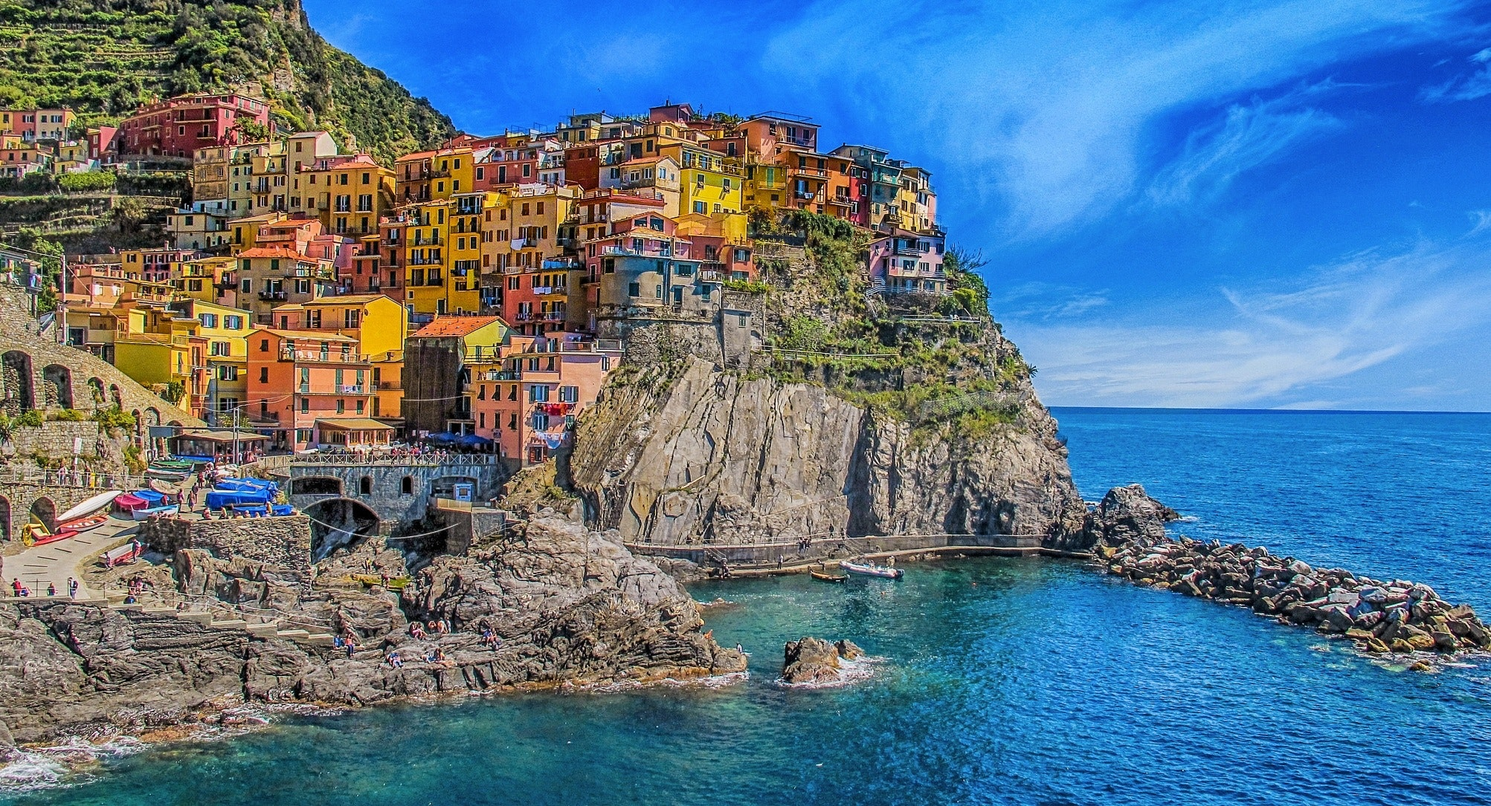
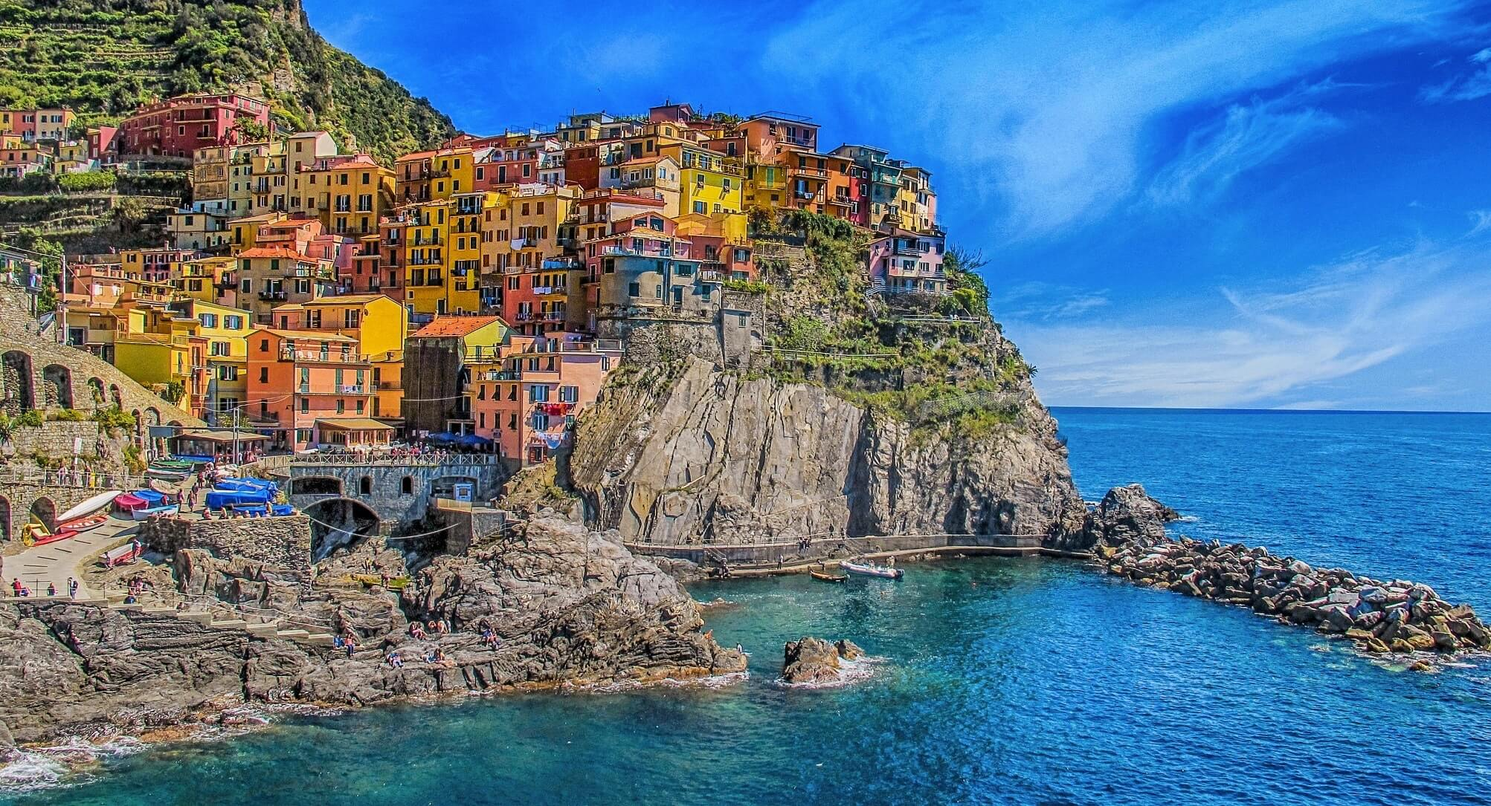
added ajax and compressed images

diff --git a/index.html b/index.html
@@ -27,17 +27,17 @@
                 <a href="index.html" class="brand-logo">Galappear</a>
                 <!--nav list -->
                 <ul class="right hide-on-med-and-down">
-                    <li class="active"><a href="index.html">Abstract</a></li>
-                    <li><a href="logos.html">Logos</a></li>
+                    <li class="active"><a href="index.html" class="mainPage">Abstract</a></li>
+                    <li><a href="logos.html" class="logosPage">Logos</a></li>
                 </ul>
                 <!--sidenav for mobile menu-->
                 <ul class="side-nav" id="mobile-demo">
-                    <li><a href="index.html">Abstract</a></li>
-                    <li><a href="logos.html">Logos</a></li>
+                    <li><a href="index.html" class="mainPage">Abstract</a></li>
+                    <li><a href="logos.html" class="logosPage">Logos</a></li>
                 </ul>
             </div>
         </nav>
-        <h1 class="center">
+        <h1 id="main" class="center">
             I Do Web Development
         </h1>
         <h4 class="center">Abdo Essam</h4>
@@ -145,9 +145,8 @@
             <div class="col l4 offset-l2 s12">
                 <h5 class="white-text">Links</h5>
                 <ul>
-                    <li><a class="grey-text text-lighten-3" href="index.html">Abstract</a></li>
-                    <li><a class="grey-text text-lighten-3" href="logos.html">Logos</a></li>
-                    <li><a class="grey-text text-lighten-3" href="gaming.html">Gaming</a></li>
+                    <li><a class="grey-text text-lighten-3 mainPage" href="index.html">Abstract</a></li>
+                    <li><a class="grey-text text-lighten-3 logosPage" href="logos.html">Logos</a></li>
                 </ul>
             </div>
         </div>
@@ -155,7 +154,7 @@
     <div class="footer-copyright">
         <div class="container">
             © 2018  Galappear
-            <a class="grey-text text-lighten-4 right" href="#!">More Links</a>
+            <a class="grey-text text-lighten-4 right" href="#main">up to the top</a>
         </div>
     </div>
 </footer>
@@ -215,16 +214,11 @@
 
 
 
-
-
-
-
-
 <!--jquery file-->
 <script src="js/jquery.js"></script>
 <!--materilaze-->
 <script src="js/materialize.js"></script>
-<!--mauinjs file-->
+<!--main.js file-->
 <script src="js/main.js"></script>
 </body>
 </html>

diff --git a/logos.html b/logos.html
@@ -24,20 +24,20 @@
                 <a href="#" data-activates="mobile-demo" class="button-collapse show-on-large">
                     <i class="material-icons">menu</i>
                 </a>
-                <a href="index.html" class="brand-logo">Galappear</a>
+                <a href="#" class="brand-logo mainPage">Galappear</a>
                 <!--nav list -->
                 <ul class="right hide-on-med-and-down">
-                    <li><a href="index.html">Abstract</a></li>
-                    <li class="active"><a href="logos.html">Logos</a></li>
+                    <li><a href="index.html" class="mainPage">Abstract</a></li>
+                    <li class="active"><a href="logos.html" class="logosPage">Logos</a></li>
                 </ul>
                 <!--sidenav for mobile menu-->
                 <ul class="side-nav" id="mobile-demo">
-                    <li><a href="index.html">Abstract</a></li>
-                    <li><a href="logos.html">Logos</a></li>
+                    <li><a href="index.html" class="mainPage">Abstract</a></li>
+                    <li><a href="logos.html" class="logosPage">Logos</a></li>
                 </ul>
             </div>
         </nav>
-        <h1 class="center">
+        <h1 class="center" id="main">
             I Do Web Development
         </h1>
         <h4 class="center">Abdo Essam</h4>
@@ -145,9 +145,8 @@
             <div class="col l4 offset-l2 s12">
                 <h5 class="white-text">Links</h5>
                 <ul>
-                    <li><a class="grey-text text-lighten-3" href="index.html">Abstract</a></li>
-                    <li><a class="grey-text text-lighten-3" href="logos.html">Logos</a></li>
-                    <li><a class="grey-text text-lighten-3" href="gaming.html">Gaming</a></li>
+                    <li><a class="grey-text text-lighten-3 mainPage" href="index.html">Abstract</a></li>
+                    <li><a class="grey-text text-lighten-3 logosPage" href="logos.html">Logos</a></li>
                 </ul>
             </div>
         </div>
@@ -155,7 +154,7 @@
     <div class="footer-copyright">
         <div class="container">
             © 2018  Galappear
-            <a class="grey-text text-lighten-4 right" href="#!">More Links</a>
+            <a class="grey-text text-lighten-4 right" href="#main">up to the top</a>
         </div>
     </div>
 </footer>

diff --git a/js/main.js b/js/main.js
@@ -1,25 +1,61 @@
 $(function () {
     // init sideNav
     $(".button-collapse").sideNav();
-//    init modals
-    $('.modal').modal();
-//    scrollfire
+    //    init modals
+    $(".modal").modal();
+    //    scrollfire
     var options = [
         {
-            selector: '.row-1', offset: 50, callback: function (el) {
+            selector: ".row-1",
+            offset: 50,
+            callback: function (el) {
                 Materialize.fadeInImage($(el));
             }
-        }, {
-            selector: '.row-2', offset: 300, callback: function (el) {
+        },
+        {
+            selector: ".row-2",
+            offset: 300,
+            callback: function (el) {
                 Materialize.fadeInImage($(el));
             }
-        }, {
-            selector: '.row-3', offset: 400, callback: function (el) {
+        },
+        {
+            selector: ".row-3",
+            offset: 400,
+            callback: function (el) {
                 Materialize.fadeInImage($(el));
             }
         }
     ];
     Materialize.scrollFire(options);
+
+//  ajax rules for the pages
+    $(".logosPage").on("click", function (e) {
+        e.preventDefault();
+        $.ajax({
+            url: "logos.html",
+            cache:false,
+            success: function (data) {
+                $("body").html(data)
+
+            }, error: function (error) {
+                console.log(error)
+            }
+        })
+    });
+    $(".mainPage").on("click", function (e) {
+        e.preventDefault();
+        $.ajax({
+            url: "index.html",
+            cache:false,
+            success: function (data) {
+                $("body").html(data)
+
+            }, error: function (error) {
+                console.log(error)
+            }
+        });
+    });
 
 
 });
